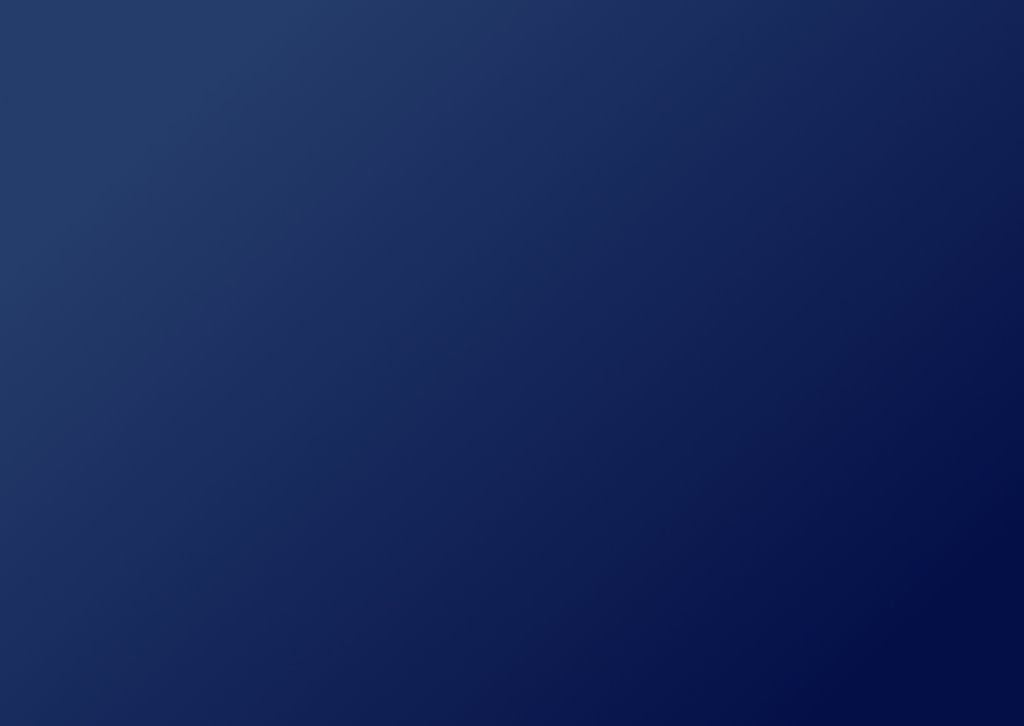
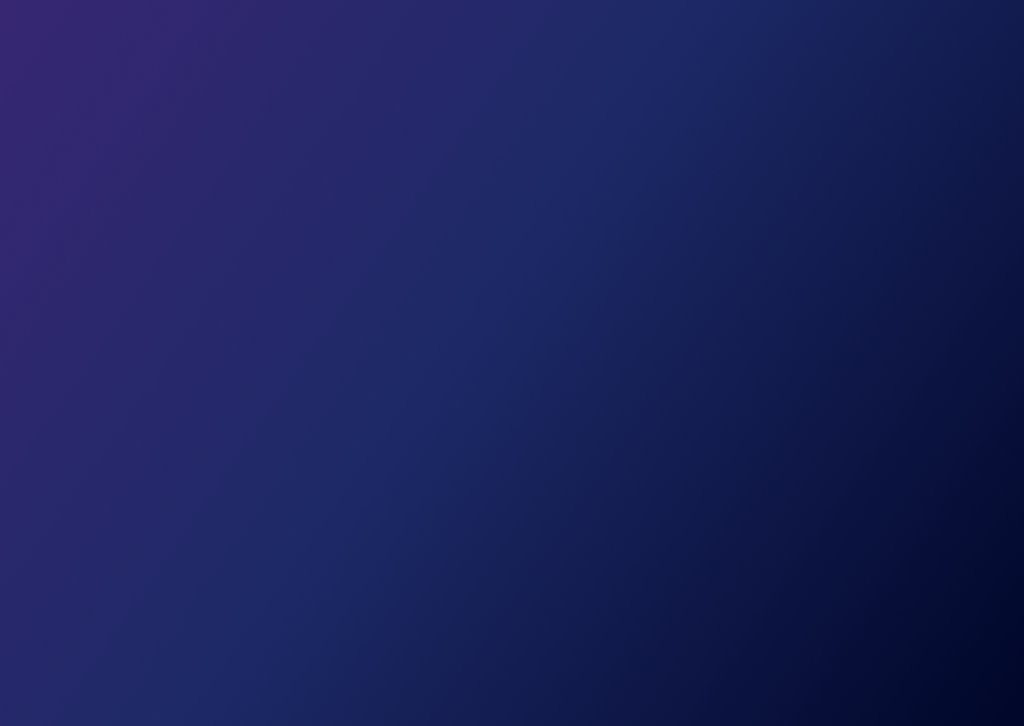
feat(hero): apply new twilight indigo to midnight abyss gradient to hero section

Changed region(s): [[0.9062, 0.8485, 1.0, 1.0]]

diff --git a/style.css b/style.css
@@ -556,8 +556,8 @@ button, input, select, textarea {
 .hero-onramp-section {
   position: relative;
   min-height: 90vh;
-  background: #15265a url('assets/hero_gradient_bg.jpg') no-repeat center center / cover;
-  background-image: linear-gradient(135deg, #253d6b 0%, #203564 25%, #15265a 50%, #0c194e 75%, #040f47 100%);
+  background: #1b2763 url('assets/hero_gradient_bg.jpg') no-repeat center center / cover;
+  background-image: linear-gradient(135deg, #372772 0%, #24296b 25%, #1b2763 50%, #0a113d 75%, #01072b 100%);
   color: #ffffff;
   display: flex;
   align-items: center;
@@ -575,7 +575,7 @@ button, input, select, textarea {
   transform: translate(-50%, -20%);
   width: 950px;
   height: 520px;
-  background: radial-gradient(ellipse, rgba(37, 61, 107, 0.4) 0%, rgba(21, 38, 90, 0.2) 50%, transparent 75%);
+  background: radial-gradient(ellipse, rgba(55, 39, 114, 0.45) 0%, rgba(27, 39, 99, 0.22) 50%, transparent 75%);
   pointer-events: none;
   z-index: 1;
   animation: heroCelestialAura 7.5s ease-in-out infinite alternate;
@@ -827,7 +827,7 @@ button, input, select, textarea {
   display: inline-flex;
   align-items: center;
   justify-content: center;
-  background: rgba(37, 61, 107, 0.6);
+  background: rgba(55, 39, 114, 0.6);
   color: #ffffff;
   font-size: 0.95rem;
   font-weight: 500;
@@ -835,7 +835,7 @@ button, input, select, textarea {
   padding: 0.5rem 1.6rem;
   border-radius: 9999px;
   margin-bottom: 1.5rem;
-  border: 1px solid rgba(55, 85, 145, 0.6);
+  border: 1px solid rgba(85, 65, 165, 0.6);
   backdrop-filter: blur(14px) saturate(180%);
   -webkit-backdrop-filter: blur(14px) saturate(180%);
   box-shadow: 
@@ -992,8 +992,8 @@ button, input, select, textarea {
   gap: 1.5rem;
   width: 100%;
   max-width: 940px;
-  background: rgba(4, 15, 71, 0.65);
-  border: 1px solid rgba(37, 61, 107, 0.6);
+  background: rgba(1, 7, 43, 0.72);
+  border: 1px solid rgba(55, 39, 114, 0.6);
   border-radius: 16px;
   padding: 1.6rem 2rem;
   backdrop-filter: blur(16px);

diff --git a/hero-network.js b/hero-network.js
@@ -26,10 +26,10 @@
 
     // Palette & Physics Configuration
     const config = {
-      nodeCyan: 'rgba(165, 196, 255, 0.85)', // Light sapphire node
-      nodeTeal: 'rgba(215, 230, 255, 0.9)',  // Soft luminous highlight
+      nodeCyan: 'rgba(180, 165, 255, 0.85)', // Soft violet-indigo node
+      nodeTeal: 'rgba(215, 225, 255, 0.9)',  // Soft luminous white-blue
       nodeHighlight: '#ffffff',              // White node highlight
-      meshLineColor: 'rgba(110, 150, 220, ', // Harmonized navy mesh lines
+      meshLineColor: 'rgba(125, 115, 210, ', // Harmonized indigo mesh lines
       
       // Proximity connection thresholds
       desktopConnectDist: 140,
